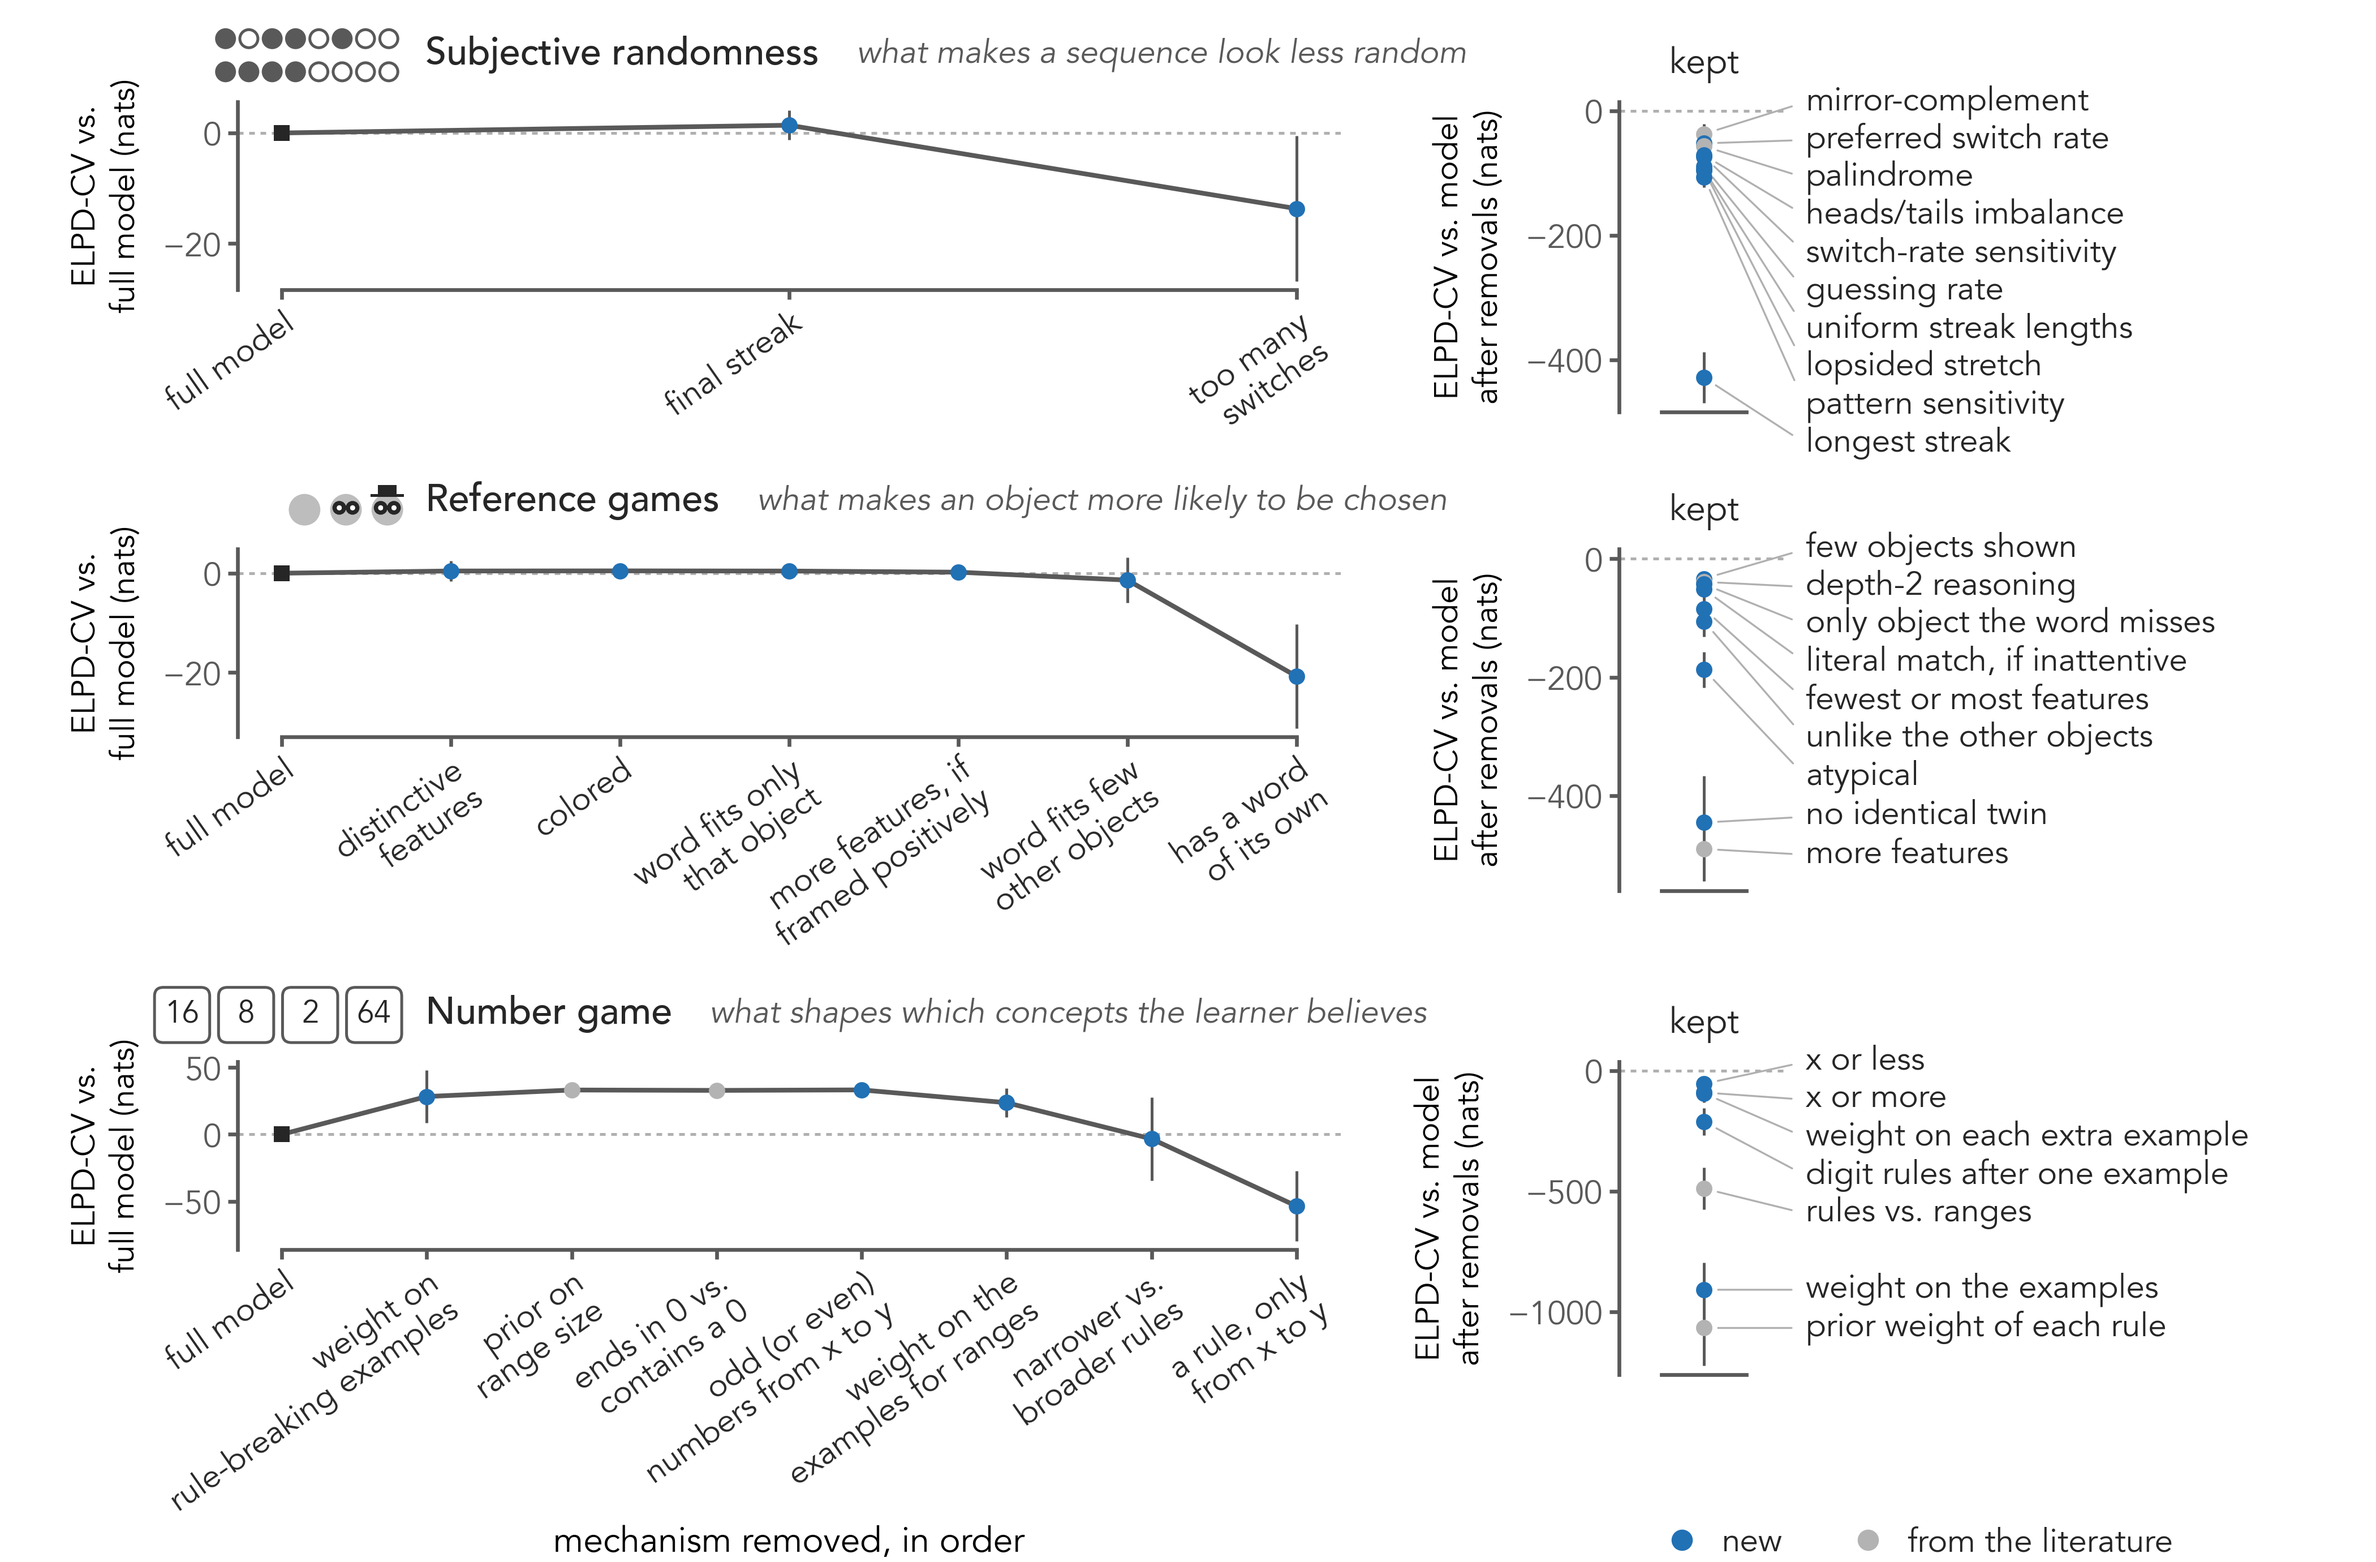
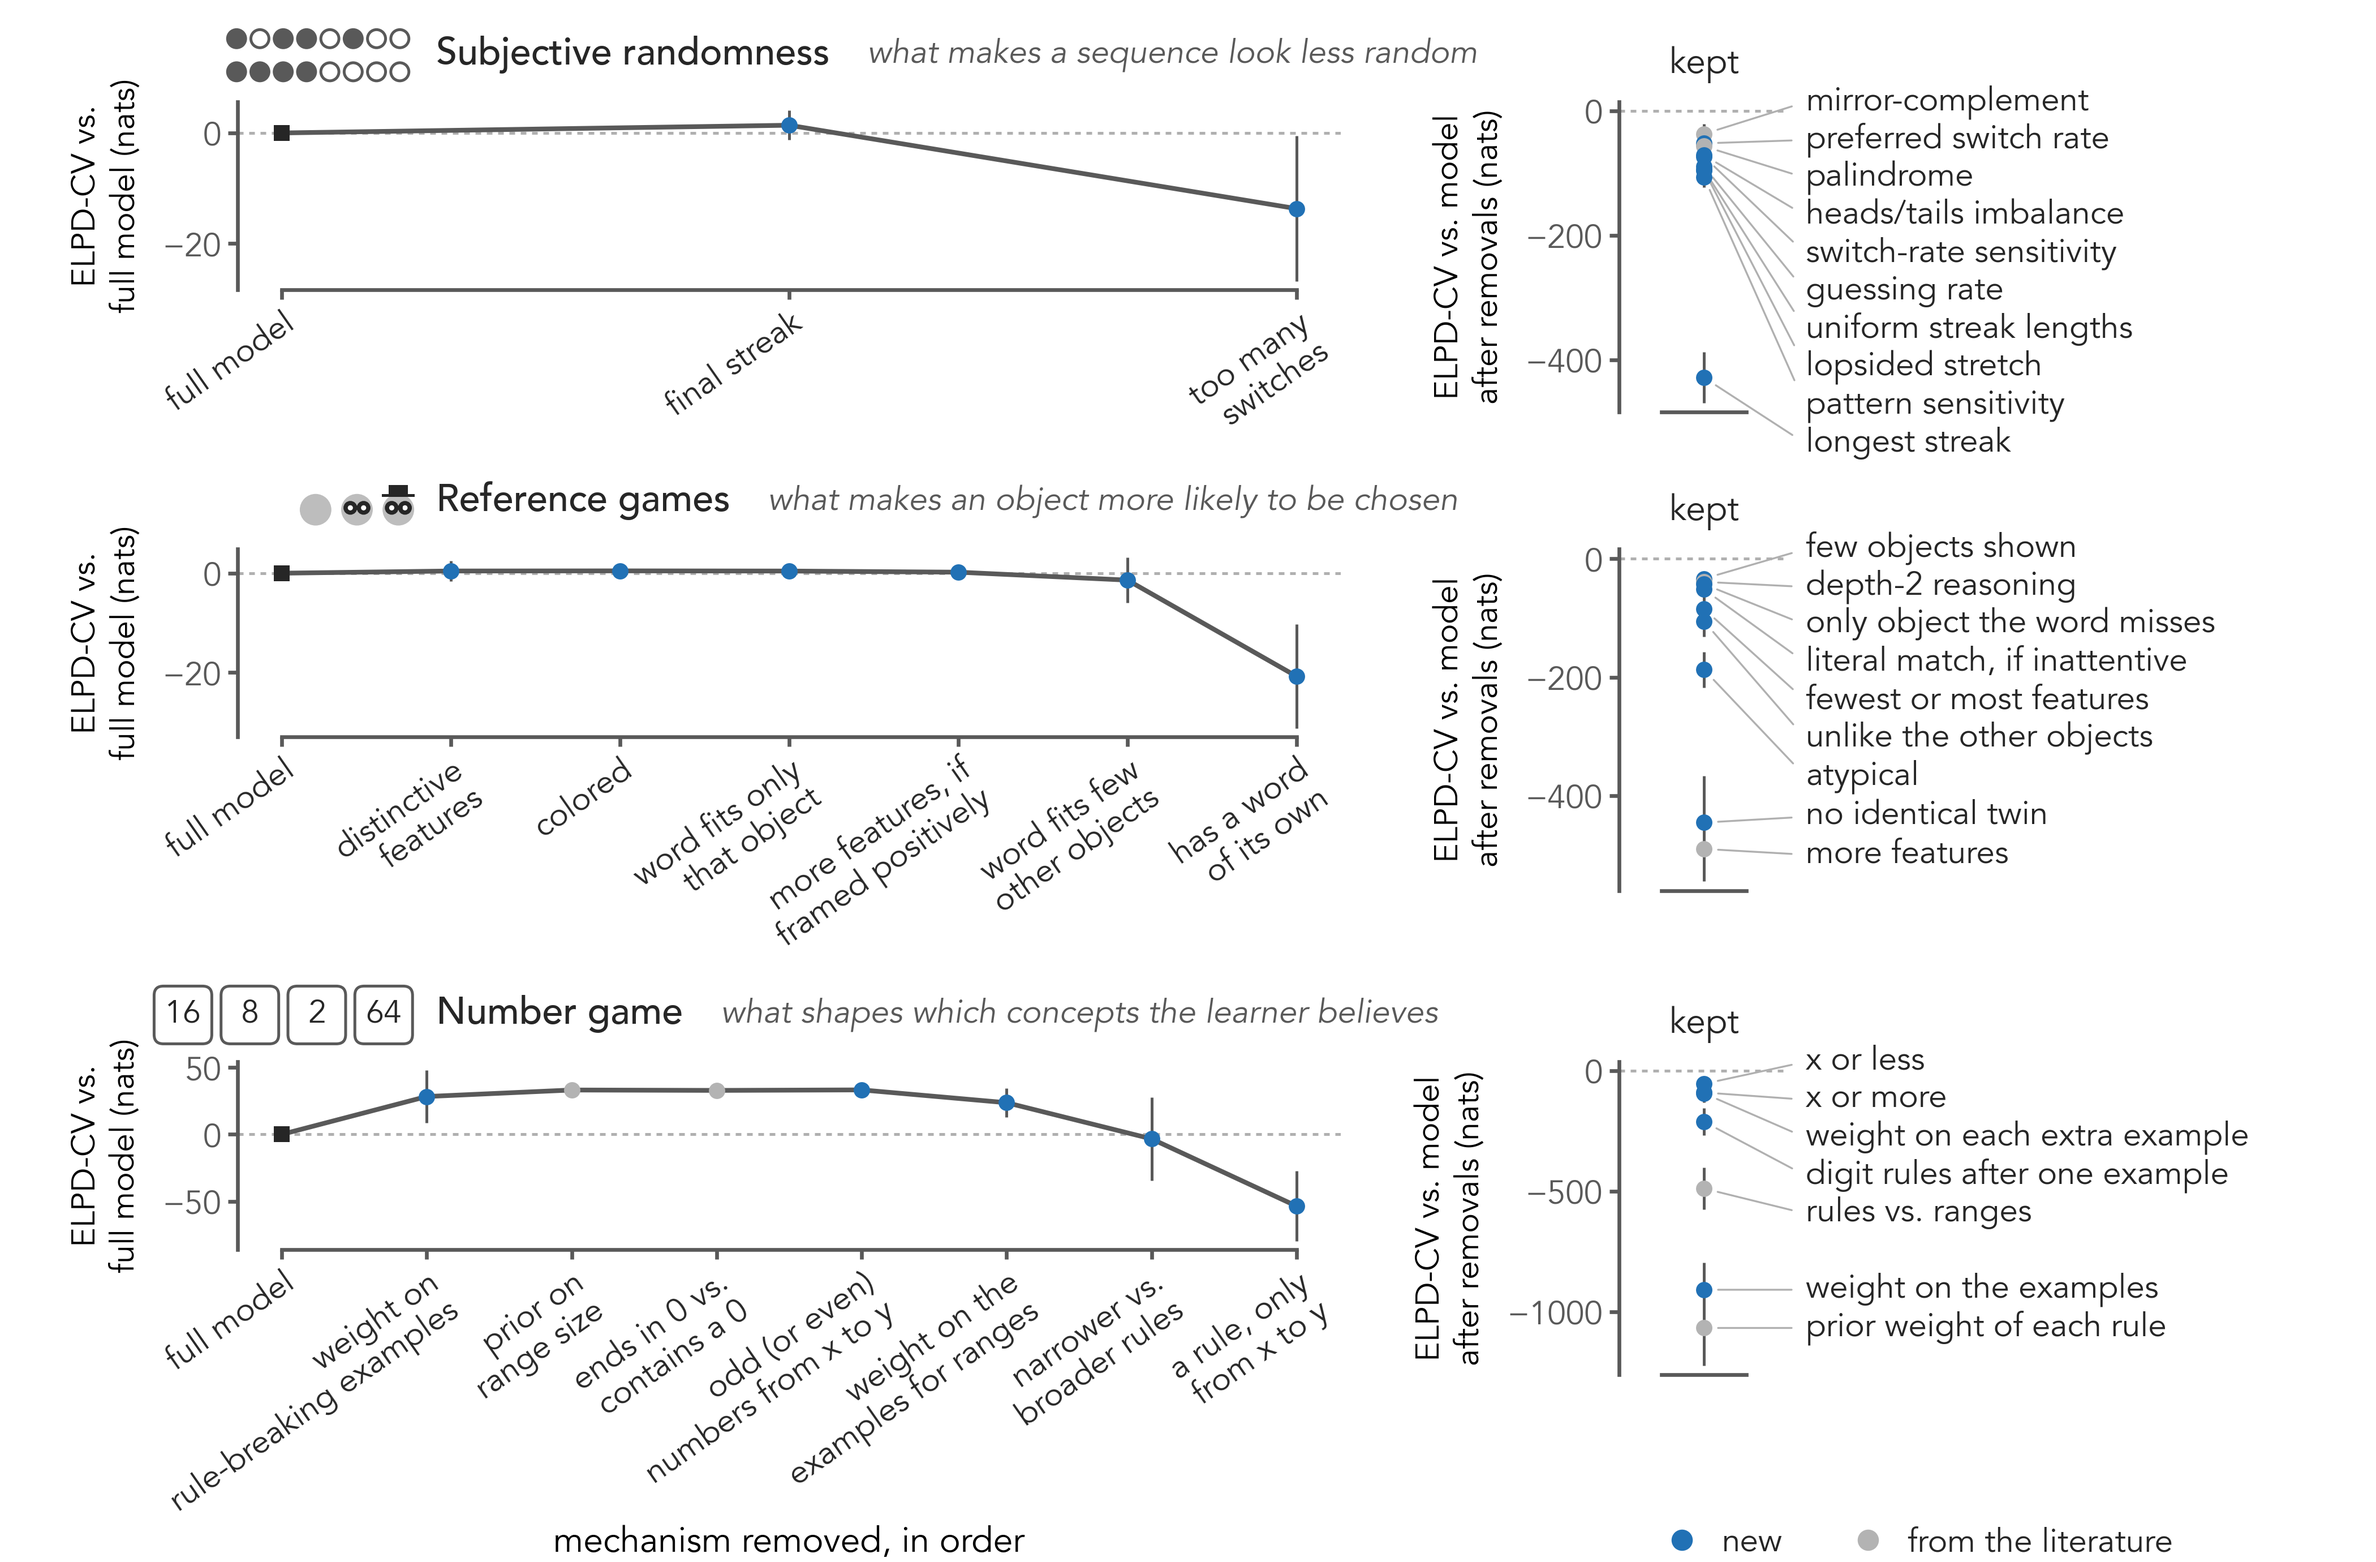
Fig. 4: number-card digits 6.6 -> 6.9 pt for print-size headroom
The digits printed at 6.01 pt; at 6.9 pt they print at 6.29 pt and stay at
6 pt or more down to an include width of 0.86\linewidth. The titles move
right (x 0.17 -> 0.18) so the wider cards still clear the y label. Corrects
the printed width in comments (459.08 bp) and the LOG entry's spacing.

diff --git a/scripts/paper/figures/fig4.py b/scripts/paper/figures/fig4.py
@@ -34,8 +34,9 @@ LEFT, RIGHT, TICK_DEG = 0.04, 0.04, 35  # shares of the path's axis before the f
 PATH_IN, KEPT_IN, GAP_IN = 3.25, 0.5, 0.82  # widths: the path's axes, the kept column's, between them (inches)
 LEFT_PAD, TOP_PAD, LEGEND_PAD, ROW_GAP = 0.1, 0.01, 0.0, 0.06  # figure shares (left, top, the legend's), inches between rows
 ICON_OVER, ONE_LINE, KEPT_DOWN = 0.5, 14, 0.8  # how far each title's icon reaches over it (title heights); the longest one-line step name; the share of the step names' height the kept column extends down
-# the number cards' digits: 6 pt printed (a figure* at 0.9 x pnas-new.cls's 512-pt \textwidth: 6.38 in of 7.0)
-DIGITS_PT = 6.6
+# the number cards' digits: 6.3 pt printed (a figure* at 0.9 x pnas-new.cls's 512-pt \textwidth: 6.38 in of 7.0),
+# still 6 pt at an include width of 0.86\linewidth
+DIGITS_PT = 6.9
 WIDTH_IN, HEIGHT_IN = 7.0, 4.6  # one row per domain; the saved figure: PNAS's full width
 # each panel's cues are named by what pushes its response this way (the fitted signs: mechanisms.yaml)
 DIRECTION = {"subjective_randomness": "what makes a sequence look less random",
@@ -213,7 +214,7 @@ def draw_ablation(figure_data: Path, mechanisms: Path, out_dir: Path) -> None:
     points = {d: ablation_points(json.loads(src[d].read_text())) for d in TITLES}
     for ax, d in zip(axes, TITLES):
         draw_path(ax, points[d][0], names[d])
-        title = ax.set_title(TITLES[d], fontdict=TITLE_FONT, pad=8, x=0.17, ha="left")  # the icon goes left of it, the number cards clear of the y label
+        title = ax.set_title(TITLES[d], fontdict=TITLE_FONT, pad=8, x=0.18, ha="left")  # the icon goes left of it, the number cards clear of the y label
         ax.annotate(DIRECTION[d], (1, 0.5), xycoords=title, xytext=(8, 0), textcoords="offset points",
                     ha="left", va="center", fontsize=NAME_PT, color=INK_2, style="italic")
     axes[-1].set_xlabel("mechanism removed, in order", fontsize=SMALL + 0.5, labelpad=1)  # the same in every row

diff --git a/tests/test_paper_figures.py b/tests/test_paper_figures.py
@@ -528,7 +528,7 @@ def test_figure_4_shows_each_domains_stopping_rule():
 
 
 # Fig. 4 prints as a figure* at width=0.9\linewidth; pnas-new.cls sets \textwidth to 512 TeX pt (1/72.27 in)
-FIG4_PRINT_PT = 0.9 * 512 / 72.27 * 72  # its printed width in PDF points (459.2)
+FIG4_PRINT_PT = 0.9 * 512 / 72.27 * 72  # its printed width in PDF points (459.08)
 
 
 def _pdf_font_sizes(path):

diff --git a/LOG.md b/LOG.md
@@ -204,13 +204,15 @@ Entry format (newest at the bottom):
 - Note: Fig. 2 RG re-zeroes on the textbook seed but draws the winners' SE against the promoted bar (`vs_best_starting`
   holds the SEs for the textbook zero, about 3× wider). The RG ablation's CV-unit count needs `finals_pool/pooled.csv` (Sherlock).
 
+
 ## 2026-11-23: Figure 4's text at 6-12 pt printed
 - Lesson: measure print-size fonts from the saved PDF, not the code: each span's size is its `Tf` size times
   sqrt|det| of (text matrix x CTM) (pypdf's `extract_text(visitor_text=...)` gives both; no new dependency),
   scaled by printed width / PDF page width. Take the printed width from the class file and the `\includegraphics`
   line: pnas-new.cls sets `\textwidth` to 512 TeX pt (1/72.27 in), so Fig. 4 at `0.9\linewidth` of a `figure*`
-  prints 459.2 bp wide against its 504-bp page (x0.911). Why: the number cards' digits were 4.5 pt in code and
-  4.10 pt printed (an earlier estimate said 5.6); the rest of Fig. 4 was 6.38-7.29 pt.
+  prints 459.08 bp wide against its 504-bp page (x0.911). Why: the number cards' digits were 4.5 pt in code and
+  4.10 pt printed (an earlier estimate said 5.6); the rest of Fig. 4 was 6.38-7.29 pt. Leave headroom: the
+  digits are now 6.9 pt (6.29 printed), so they stay at 6 pt or above down to an include width of 0.86\linewidth.
 - Lesson: when testing that icons don't overlap tick labels, keep only ticks inside the view limits. Why:
   matplotlib keeps undrawn tick labels beyond the limits, which gave a false overlap above the top row.
 - Lesson: in shared `icons.py`, change one figure's icon by passing it in (`add_title_icons(..., stimuli=)`,
